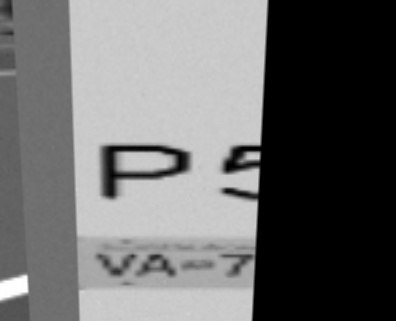
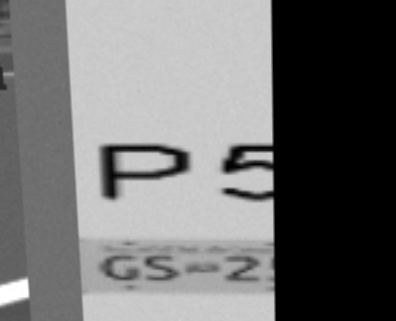
guh

diff --git a/src/mcqueen_controller/src/homography.py b/src/mcqueen_controller/src/homography.py
@@ -67,10 +67,17 @@ class Homography():
             max_pred, pred_number = self.generate_prediction(processed_number)
 
             if max_pred > 0.95:
+                var = self.plate_num
+                
                 self.plate_num = self.plate_reference[str(pred_number)]
-                print(self.plate_num)
 
+                if var == 5 and not self.plate_num == 5:
+                    self.plate_num = 1
+
+                print(self.plate_num)
+                
                 self.pr.publish_plate(pred_number, predicted_plate) # TODO: put predicted plate
+
 
 
     # Method for generating homography on an image
@@ -190,7 +197,7 @@ class Homography():
         char1 = self.index_to_val(i1)
         char2 = self.index_to_val(i2)
 
-        pred_chars = [char1,char2]
+        pred_chars = char1 + char2
 
         # predict numbers
         n1 = np.expand_dims(nums[0],axis=0)
@@ -204,8 +211,7 @@ class Homography():
         i3 = np.argmax(pred_n1)
         i4 = np.argmax(pred_n2)
 
-        pred_chars.append(str(i3))
-        pred_chars.append(str(i4))
+        pred_chars = pred_chars + str(i3) + str(i4)
 
         print(pred_chars)
         return pred_chars
@@ -230,11 +236,11 @@ class Homography():
 
         sz = (105,150)
         
-        letter1 = self.thresh_char(cv2.resize(image[10:-15,10:45],sz))
-        letter2 = self.thresh_char(cv2.resize(image[10:-15,50:90],sz))
+        letter1 = self.thresh_char(cv2.resize(image[10:-15,10:50],sz))
+        letter2 = self.thresh_char(cv2.resize(image[10:-15,50:100],sz))
     
-        num1 = self.thresh_char(cv2.resize(image[10:-15,130:175],sz))
-        num2 = self.thresh_char(cv2.resize(image[10:-15,170:215],sz))
+        num1 = self.thresh_char(cv2.resize(image[10:-15,130:180],sz))
+        num2 = self.thresh_char(cv2.resize(image[10:-15,172:218],sz))
 
         cv2.imshow('a',letter1)
         cv2.imshow('b',letter2)

diff --git a/src/mcqueen_controller/src/controller.py b/src/mcqueen_controller/src/controller.py
@@ -104,7 +104,7 @@ class ImageConverter:
             elif x > 250:
                 self.rm.move_robot(x=0.05, z=-0.7)
             else:
-                self.rm.move_robot(x=0.1, z=0)
+                self.rm.move_robot(x=0.09, z=0)
 
 
 class RobotMovement:
